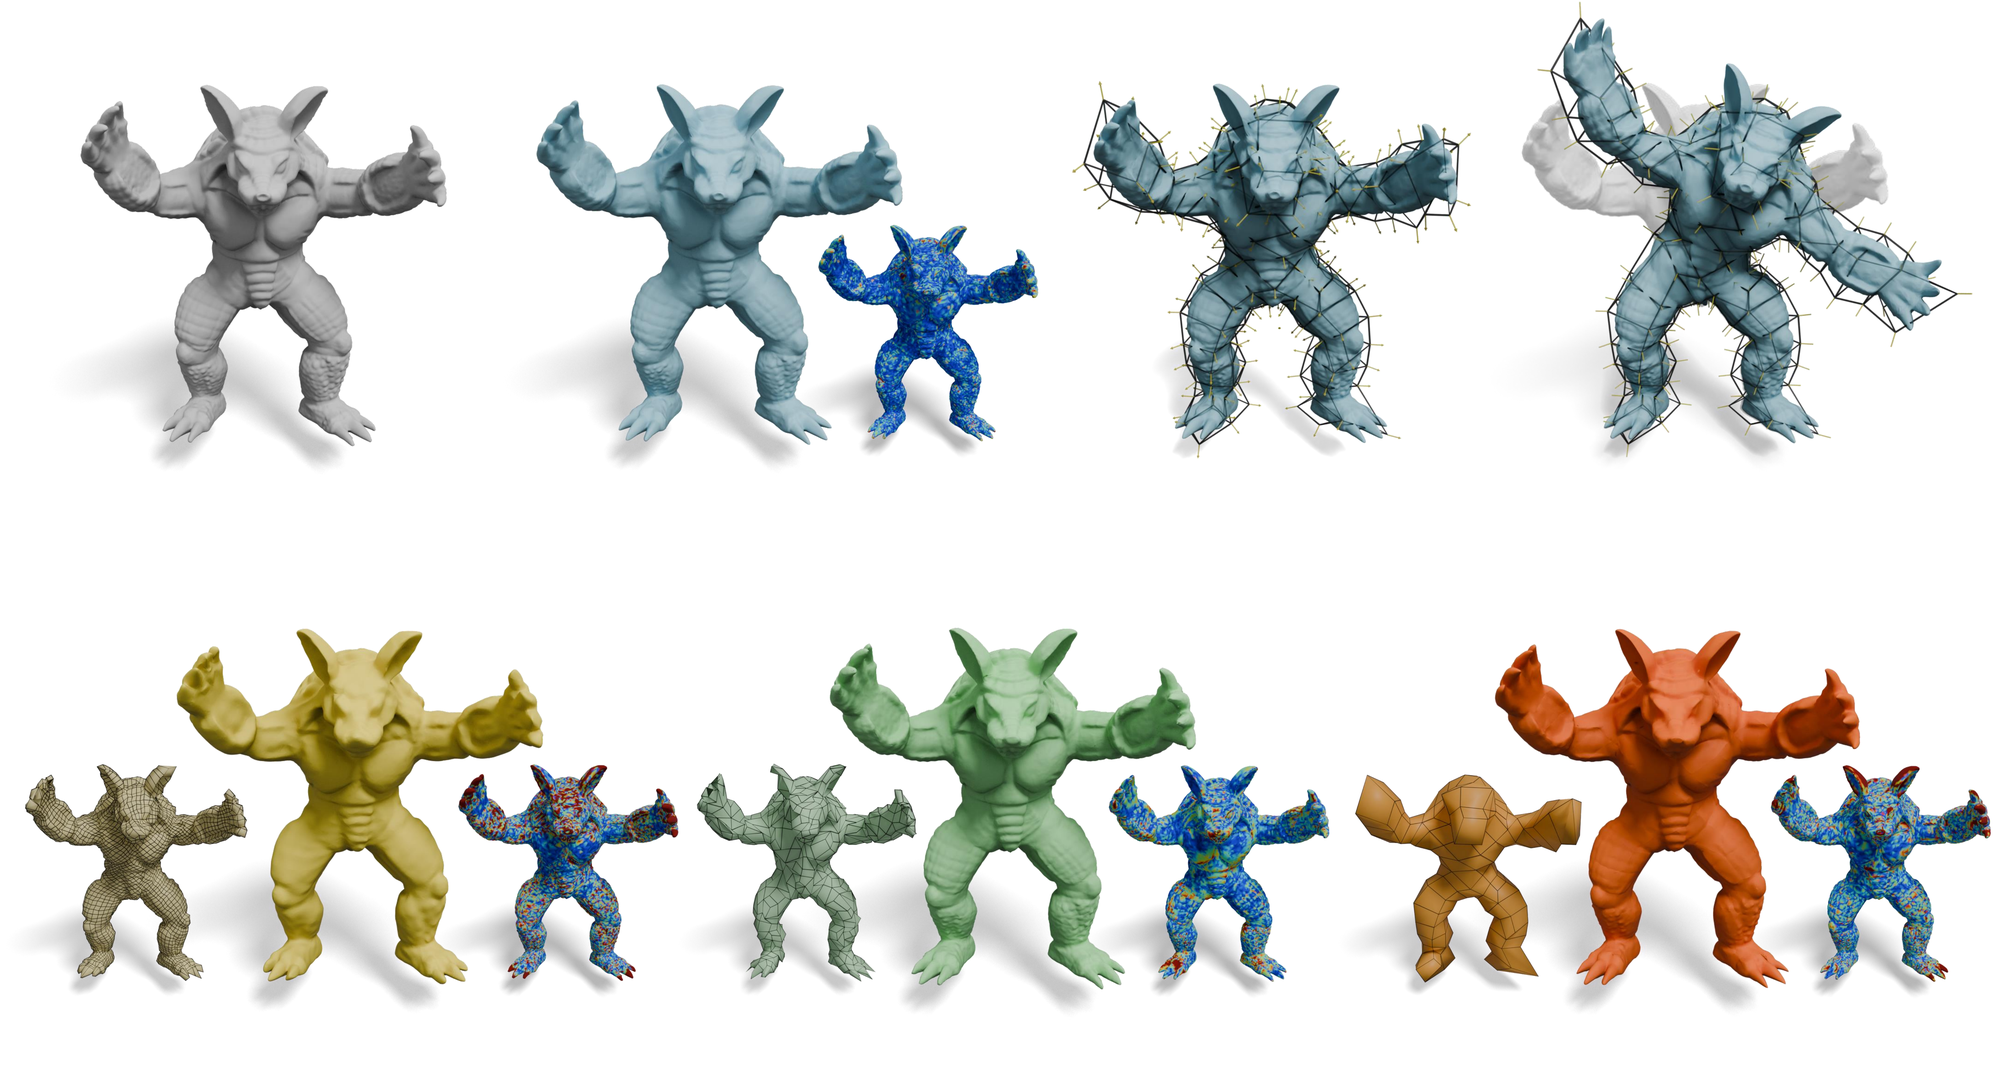
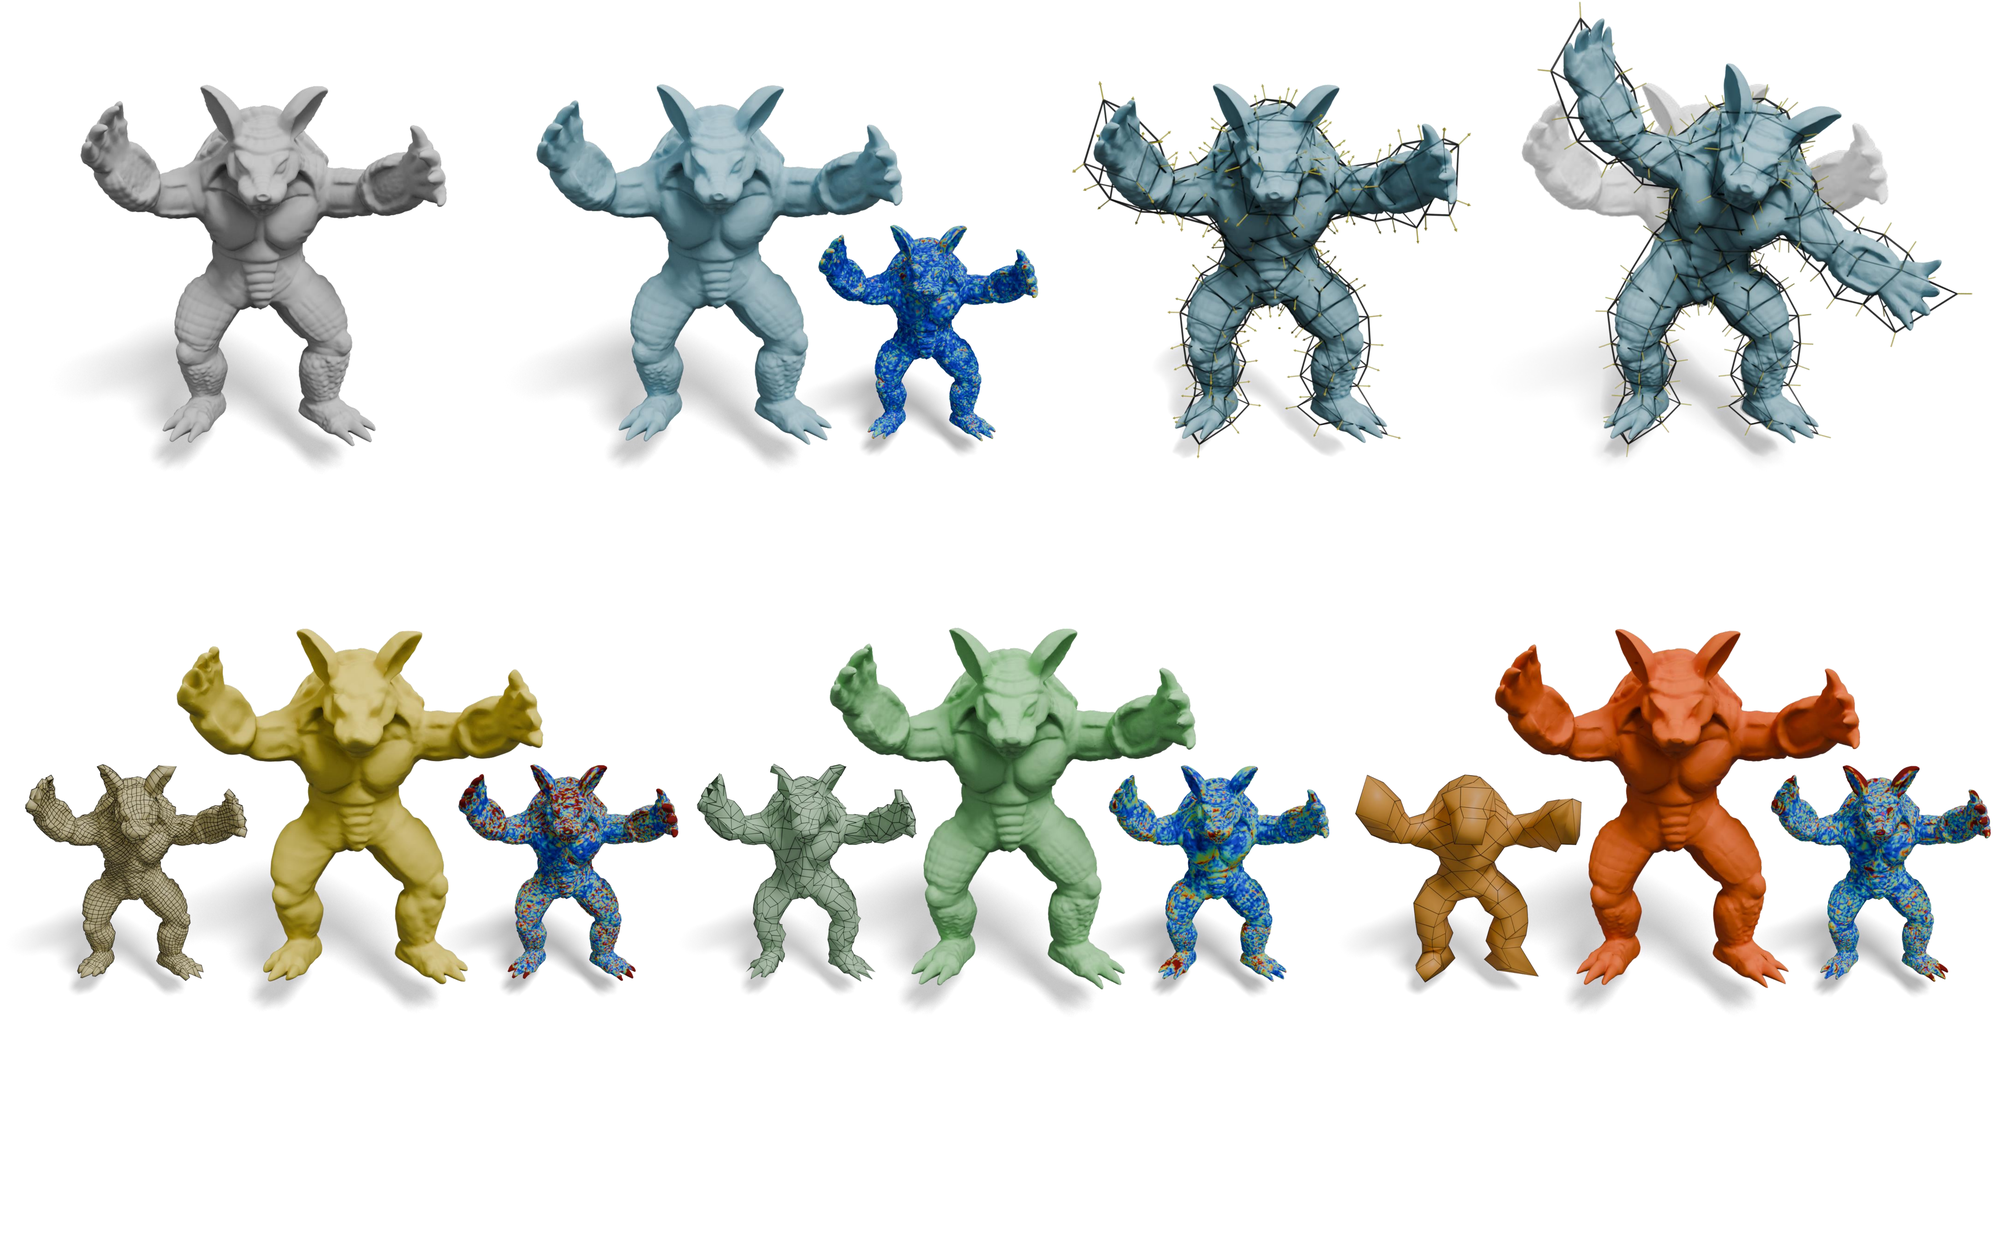
tagline fix

diff --git a/index.html b/index.html
@@ -218,12 +218,11 @@
       position: relative;
       width: 100%;
       line-height: 0;
-      padding-bottom: 3.5%;
     }
     .teaser-figure img { width: 100%; display: block; }
     .teaser-label-group {
       position: absolute;
-      transform: translate(-50%, -100%);
+      transform: translate(-50%, 0);
       display: flex;
       flex-direction: column;
       align-items: center;
@@ -498,6 +497,10 @@
       <svg width="14" height="14" viewBox="0 0 24 24" fill="none" stroke="currentColor" stroke-width="2"><polygon points="5 3 19 12 5 21 5 3"/></svg>
       Video
     </a>
+    <a class="btn btn-outline" href="#" title="Slides coming soon">
+      <svg width="14" height="14" viewBox="0 0 24 24" fill="none" stroke="currentColor" stroke-width="2"><rect x="3" y="3" width="18" height="14" rx="1"/><line x1="8" y1="21" x2="16" y2="21"/><line x1="12" y1="17" x2="12" y2="21"/></svg>
+      Slides
+    </a>
     <a class="btn btn-outline" href="#" title="Code coming soon">
       <svg width="14" height="14" viewBox="0 0 24 24" fill="none" stroke="currentColor" stroke-width="2"><polyline points="16 18 22 12 16 6"/><polyline points="8 6 2 12 8 18"/></svg>
       Code (Coming soon)
@@ -510,30 +513,30 @@
   <figure>
     <div class="teaser-figure">
       <img src="assets/teaser.png" alt="NeuBase teaser: target shape, NeuBase reconstruction, quad control mesh with offset vectors, NeuBase deformation, and comparisons to CC surface, NGF, and NeuPPS">
-      <div class="teaser-label-group" style="left:8%; top:45.5%;">
+      <div class="teaser-label-group" style="left:5.5%; top:40.27%;">
         <span class="title">(a) Target</span>
         <span class="metric">P2S×10⁴ / HD×10³ / NAE / Storage (KB)</span>
       </div>
-      <div class="teaser-label-group" style="left:32%; top:45.5%;">
+      <div class="teaser-label-group" style="left:31.5%; top:40.27%;">
         <span class="title">(b) NeuBase (Ours)</span>
         <span class="metric">4.085 / 9.352 / 7.183° / 153</span>
       </div>
-      <div class="teaser-label-group" style="left:58%; top:45.5%;">
+      <div class="teaser-label-group" style="left:57%; top:40.27%;">
         <span class="title">(c) Quad control mesh</span>
         <span class="metric">with offset vectors</span>
       </div>
-      <div class="teaser-label-group" style="left:78%; top:45.5%;">
+      <div class="teaser-label-group" style="left:78%; top:40.27%;">
         <span class="title">(d) NeuBase deformation</span>
       </div>
-      <div class="teaser-label-group" style="left:13%; top:98.5%;">
+      <div class="teaser-label-group" style="left:12.5%; top:83.86%;">
         <span class="title">(e) CC surface</span>
         <span class="metric">14.72 / 47.65 / 11.70° / 153</span>
       </div>
-      <div class="teaser-label-group" style="left:47%; top:98.5%;">
+      <div class="teaser-label-group" style="left:46.5%; top:83.86%;">
         <span class="title">(f) NGF</span>
         <span class="metric">9.041 / 11.02 / 7.438° / 156</span>
       </div>
-      <div class="teaser-label-group" style="left:79%; top:98.5%;">
+      <div class="teaser-label-group" style="left:78.5%; top:83.86%;">
         <span class="title">(g) NeuPPS</span>
         <span class="metric">8.623 / 16.448 / 7.779° / 155</span>
       </div>